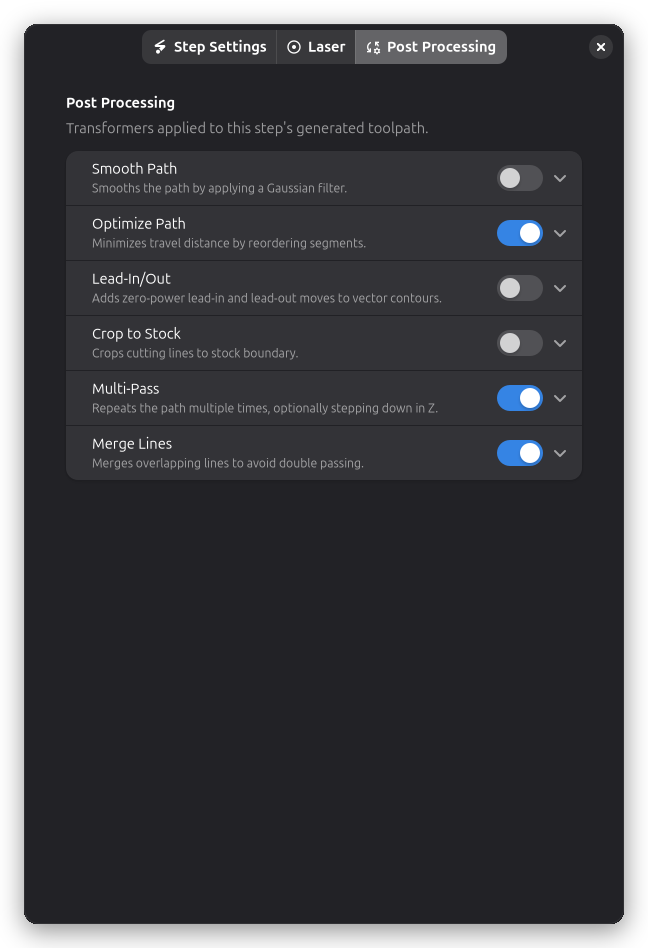
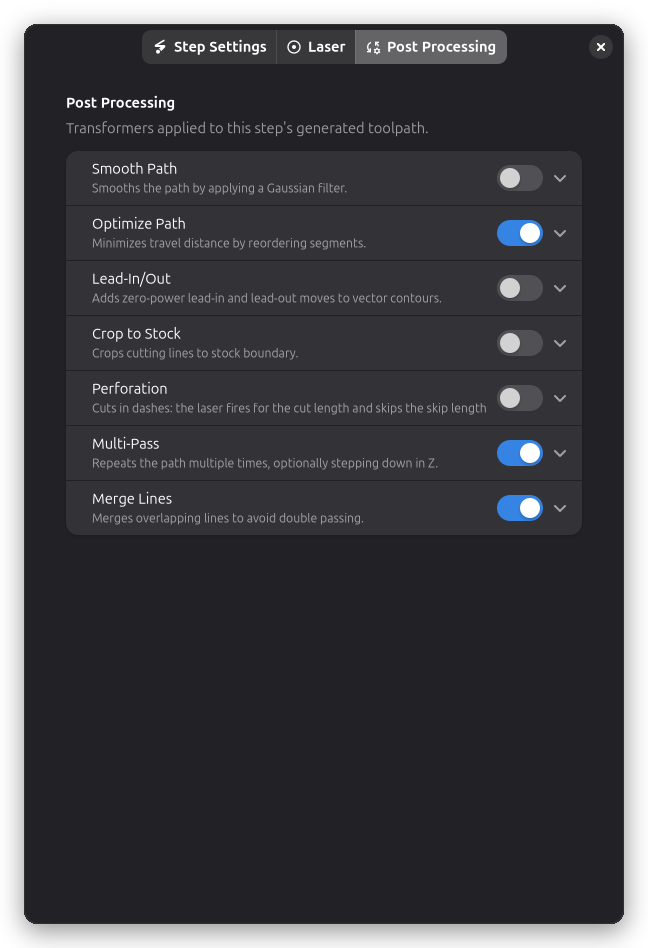
docs: screenshot the Perforation post-processor and its result
Add two screenshot targets: operations:perforation loads a new
perforation.ryp asset (a rectangle and a circle on a plywood stock,
Perforation enabled at 1.0 mm cut / 0.5 mm skip) and captures a
close-up of the dashed toolpath; step-settings:contour:post:perforation
opens the post-processing page with the Perforation group enabled and
expanded. Regenerate step-settings-contour-post.webp so it includes
the new Perforation row.

diff --git a/scripts/screenshot/perforation.py b/scripts/screenshot/perforation.py
@@ -1,0 +1,139 @@
+"""
+Screenshot: Perforation post-processor applied to a contour.
+
+Usage: pixi run screenshot operations:perforation
+"""
+
+import logging
+import time
+
+from utils import (
+    clear_window_subtitle,
+    load_project,
+    restore_config,
+    run_on_main_thread,
+    set_window_size,
+    take_region_screenshot,
+    wait_for_settled,
+)
+
+from rayforge.core.workpiece import WorkPiece
+from rayforge.uiscript import app, win
+
+logger = logging.getLogger(__name__)
+
+TARGET_PX_PER_MM = 26.0
+CROP_SIZE = (1200, 800)
+
+
+def _content_boxes() -> list[tuple[float, float, float, float]]:
+    items = [
+        item
+        for layer in win.doc_editor.doc.layers
+        for item in layer.children
+        if isinstance(item, WorkPiece)
+    ]
+    items.extend(win.doc_editor.doc.stock_items)
+    return [item.bbox for item in items if item.size != (0.0, 0.0)]
+
+
+def frame_closeup() -> tuple[float, float] | None:
+    """Zoom in on the workpiece so the dash pattern is clearly visible.
+
+    Centers the view on a point inside the workpiece and returns the
+    focused world position, or None when there is nothing to frame.
+    """
+
+    def _frame() -> tuple[float, float] | None:
+        boxes = _content_boxes()
+        if not boxes:
+            logger.warning("No content to frame")
+            return None
+        min_x = min(b[0] for b in boxes)
+        min_y = min(b[1] for b in boxes)
+        max_x = max(b[0] + b[2] for b in boxes)
+        max_y = max(b[1] + b[3] for b in boxes)
+
+        work_boxes = [
+            b
+            for layer in win.doc_editor.doc.layers
+            for b in [
+                item.bbox
+                for item in layer.children
+                if isinstance(item, WorkPiece)
+            ]
+        ]
+        if work_boxes:
+            box = work_boxes[0]
+        else:
+            box = (min_x, min_y, max_x - min_x, max_y - min_y)
+
+        focus_x = box[0] + 0.79 * box[2]
+        focus_y = box[1] + 0.5 * box[3]
+
+        scale_x, scale_y = win.surface.get_view_scale()
+        px_per_mm = max((scale_x + scale_y) / 2.0, 1e-9)
+        zoom = win.surface.zoom_level * TARGET_PX_PER_MM / px_per_mm
+        win.surface.set_zoom(max(zoom, 0.01))
+
+        for _pass in range(2):
+            pos = win.surface.view_transform.transform_point(focus_x, focus_y)
+            dx = win.surface.get_width() / 2.0 - pos[0]
+            dy = win.surface.get_height() / 2.0 - pos[1]
+            scale_x, scale_y = win.surface.get_view_scale()
+            win.surface.set_pan(
+                win.surface.pan_x_mm - dx / scale_x,
+                win.surface.pan_y_mm + dy / scale_y,
+            )
+        return focus_x, focus_y
+
+    return run_on_main_thread(_frame)
+
+
+def closeup_region(focus: tuple[float, float]) -> tuple[int, int, int, int]:
+    """Return the main-window region around the focused point."""
+
+    def _region() -> tuple[int, int, int, int]:
+        pos = win.surface.view_transform.transform_point(*focus)
+        ox, oy = win.surface.translate_coordinates(win, 0, 0)
+        cx, cy = ox + pos[0], oy + pos[1]
+        w, h = CROP_SIZE
+        return (
+            int(cx - w / 2),
+            int(cy - h / 2),
+            int(cx + w / 2),
+            int(cy + h / 2),
+        )
+
+    return run_on_main_thread(_region)
+
+
+@restore_config
+def main():
+    set_window_size(win, 2400, 1650)
+
+    load_project(win, "perforation.ryp")
+    logger.info("Waiting for document to settle...")
+    if not wait_for_settled(win, timeout=30):
+        logger.error("Document did not settle in time")
+        app.quit_idle()
+        return
+    logger.info("Document settled")
+
+    focus = frame_closeup()
+    if focus is None:
+        app.quit_idle()
+        return
+    time.sleep(0.5)
+
+    clear_window_subtitle(win)
+    time.sleep(0.25)
+
+    logger.info("Taking close-up screenshot: operations-perforation.webp")
+    take_region_screenshot(win, closeup_region(focus))
+
+    time.sleep(0.25)
+    app.quit_idle()
+
+
+main()

diff --git a/scripts/screenshot/step_settings_perforation.py b/scripts/screenshot/step_settings_perforation.py
@@ -1,0 +1,109 @@
+"""Screenshot: Contour post-processing page with Perforation expanded."""
+
+import logging
+import time
+
+from gi.repository import Adw
+from utils import (
+    find_step_by_type,
+    get_target,
+    load_project,
+    open_step_settings,
+    restore_config,
+    run_on_main_thread,
+    set_window_size,
+    take_screenshot,
+)
+
+from rayforge.uiscript import app, win
+
+logger = logging.getLogger(__name__)
+
+TARGET = get_target("step-settings:contour:post:perforation")
+
+TRANSFORMER_NAME = "PerforationTransformer"
+
+
+def find_expander_row(widget, title: str) -> Adw.ExpanderRow | None:
+    """Find the expander row with the given title in the widget tree."""
+    if isinstance(widget, Adw.ExpanderRow) and widget.get_title() == title:
+        return widget
+    child = widget.get_first_child()
+    while child is not None:
+        found = find_expander_row(child, title)
+        if found is not None:
+            return found
+        child = child.get_next_sibling()
+    return None
+
+
+def find_post_page(widget):
+    """Find the post-processing page in the widget tree."""
+    if hasattr(widget, "_group_dicts"):
+        return widget
+    child = widget.get_first_child()
+    while child is not None:
+        found = find_post_page(child)
+        if found is not None:
+            return found
+        child = child.get_next_sibling()
+    return None
+
+
+def stage_perforation_group(dialog) -> bool:
+    """Enable the Perforation transformer and expand its settings."""
+
+    def _stage() -> bool:
+        page = find_post_page(dialog)
+        if page is None:
+            return False
+        for group, t_dict in page._group_dicts.items():
+            if t_dict.get("name") != TRANSFORMER_NAME:
+                continue
+            title = group.get_title()
+            group.enable_switch.set_active(True)
+            expander = find_expander_row(page, title)
+            if expander is not None:
+                expander.set_expanded(True)
+            return True
+        return False
+
+    staged = run_on_main_thread(_stage)
+    if not staged:
+        logger.error(f"No {TRANSFORMER_NAME} found on the post page")
+    return staged
+
+
+@restore_config
+def main():
+    set_window_size(win, 2400, 1650)
+
+    load_project(win, "allsteps.ryp")
+    time.sleep(0.25)
+
+    step_type, page, _mode = "contour", "post-processing", None
+    logger.info(f"Target: {TARGET} -> type={step_type}, page={page}")
+
+    found = find_step_by_type(win, step_type)
+    if found is None or found[0] is None:
+        logger.error(f"No step found with type: {step_type}")
+        app.quit_idle()
+        return
+
+    step, step_index = found
+    logger.info(f"Found step: {step.name} at index {step_index}")
+
+    dialog = open_step_settings(win, step_index=step_index, page=page)
+    time.sleep(0.5)
+
+    if not stage_perforation_group(dialog):
+        app.quit_idle()
+        return
+    time.sleep(0.5)
+
+    take_screenshot()
+    time.sleep(0.25)
+    app.quit_idle()
+
+
+main()

diff --git a/scripts/screenshot/cli.py b/scripts/screenshot/cli.py
@@ -124,6 +124,7 @@ TARGETS = {
     "addons:sketcher:array:circular": "sketcher_array",
     "addons:sketcher:array:curve-along": "sketcher_array",
     "material-test": "material_test",
+    "operations:perforation": "perforation",
     "operations:wavefront": "wavefront",
     "recipe-editor:general": "recipe_editor_general",
     "recipe-editor:applicability": "recipe_editor_applicability",
@@ -135,6 +136,7 @@ TARGETS = {
     "step-settings:contour:general": "step_settings",
     "step-settings:contour:laser": "step_settings",
     "step-settings:contour:post": "step_settings",
+    "step-settings:contour:post:perforation": "step_settings_perforation",
     "step-settings:engrave:general:constant_power": "step_settings",
     "step-settings:engrave:general:dither": "step_settings",
     "step-settings:engrave:general:multi_pass": "step_settings",
